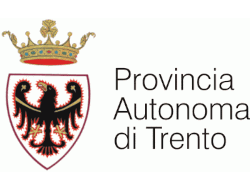
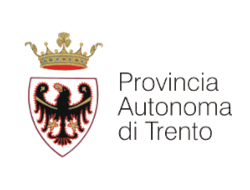
Enable community section and imgs sizes  fixed

Changed region(s): [[0.0, 0.1053, 0.42, 0.8947], [0.448, 0.3421, 1.0, 0.7895]]

diff --git a/src/themes/odh-fbe/layouts/community/list.html b/src/themes/odh-fbe/layouts/community/list.html
@@ -18,11 +18,13 @@
 </section>
 
 <!-- DEVELOPERS -->
+<!--
 <section>
 	{{ partial "title-section.html" site.Data.community.developers }}
 	{{ partial "logos.html" site.Data.community.developers }}
 </section>
-
+-->
+<!--
 <section id="fh5co-team">
 	  
 	{{ partial "title-section.html" site.Data.community.team }}
@@ -77,7 +79,7 @@
 		{{ end }}
 	</div>
 
-</div>
+</div>-->
   
 
 {{ end }}

diff --git a/src/themes/odh-fbe/layouts/partials/col-images.html b/src/themes/odh-fbe/layouts/partials/col-images.html
@@ -9,6 +9,8 @@
       <img src="{{ .img_one }}" alt="{{ .img_one_name }}" />
       <img src="{{ .img_two }}" alt="{{ .img_two_name }}" />
       <img src="{{ .img_three }}" alt="{{ .img_three_name }}" />
+      <img src="{{ .img_four }}" alt="{{ .img_four_name }}" />
+      <img src="{{ .img_five }}" alt="{{ .img_five_name }}" />
     </div>
   </div>
 
